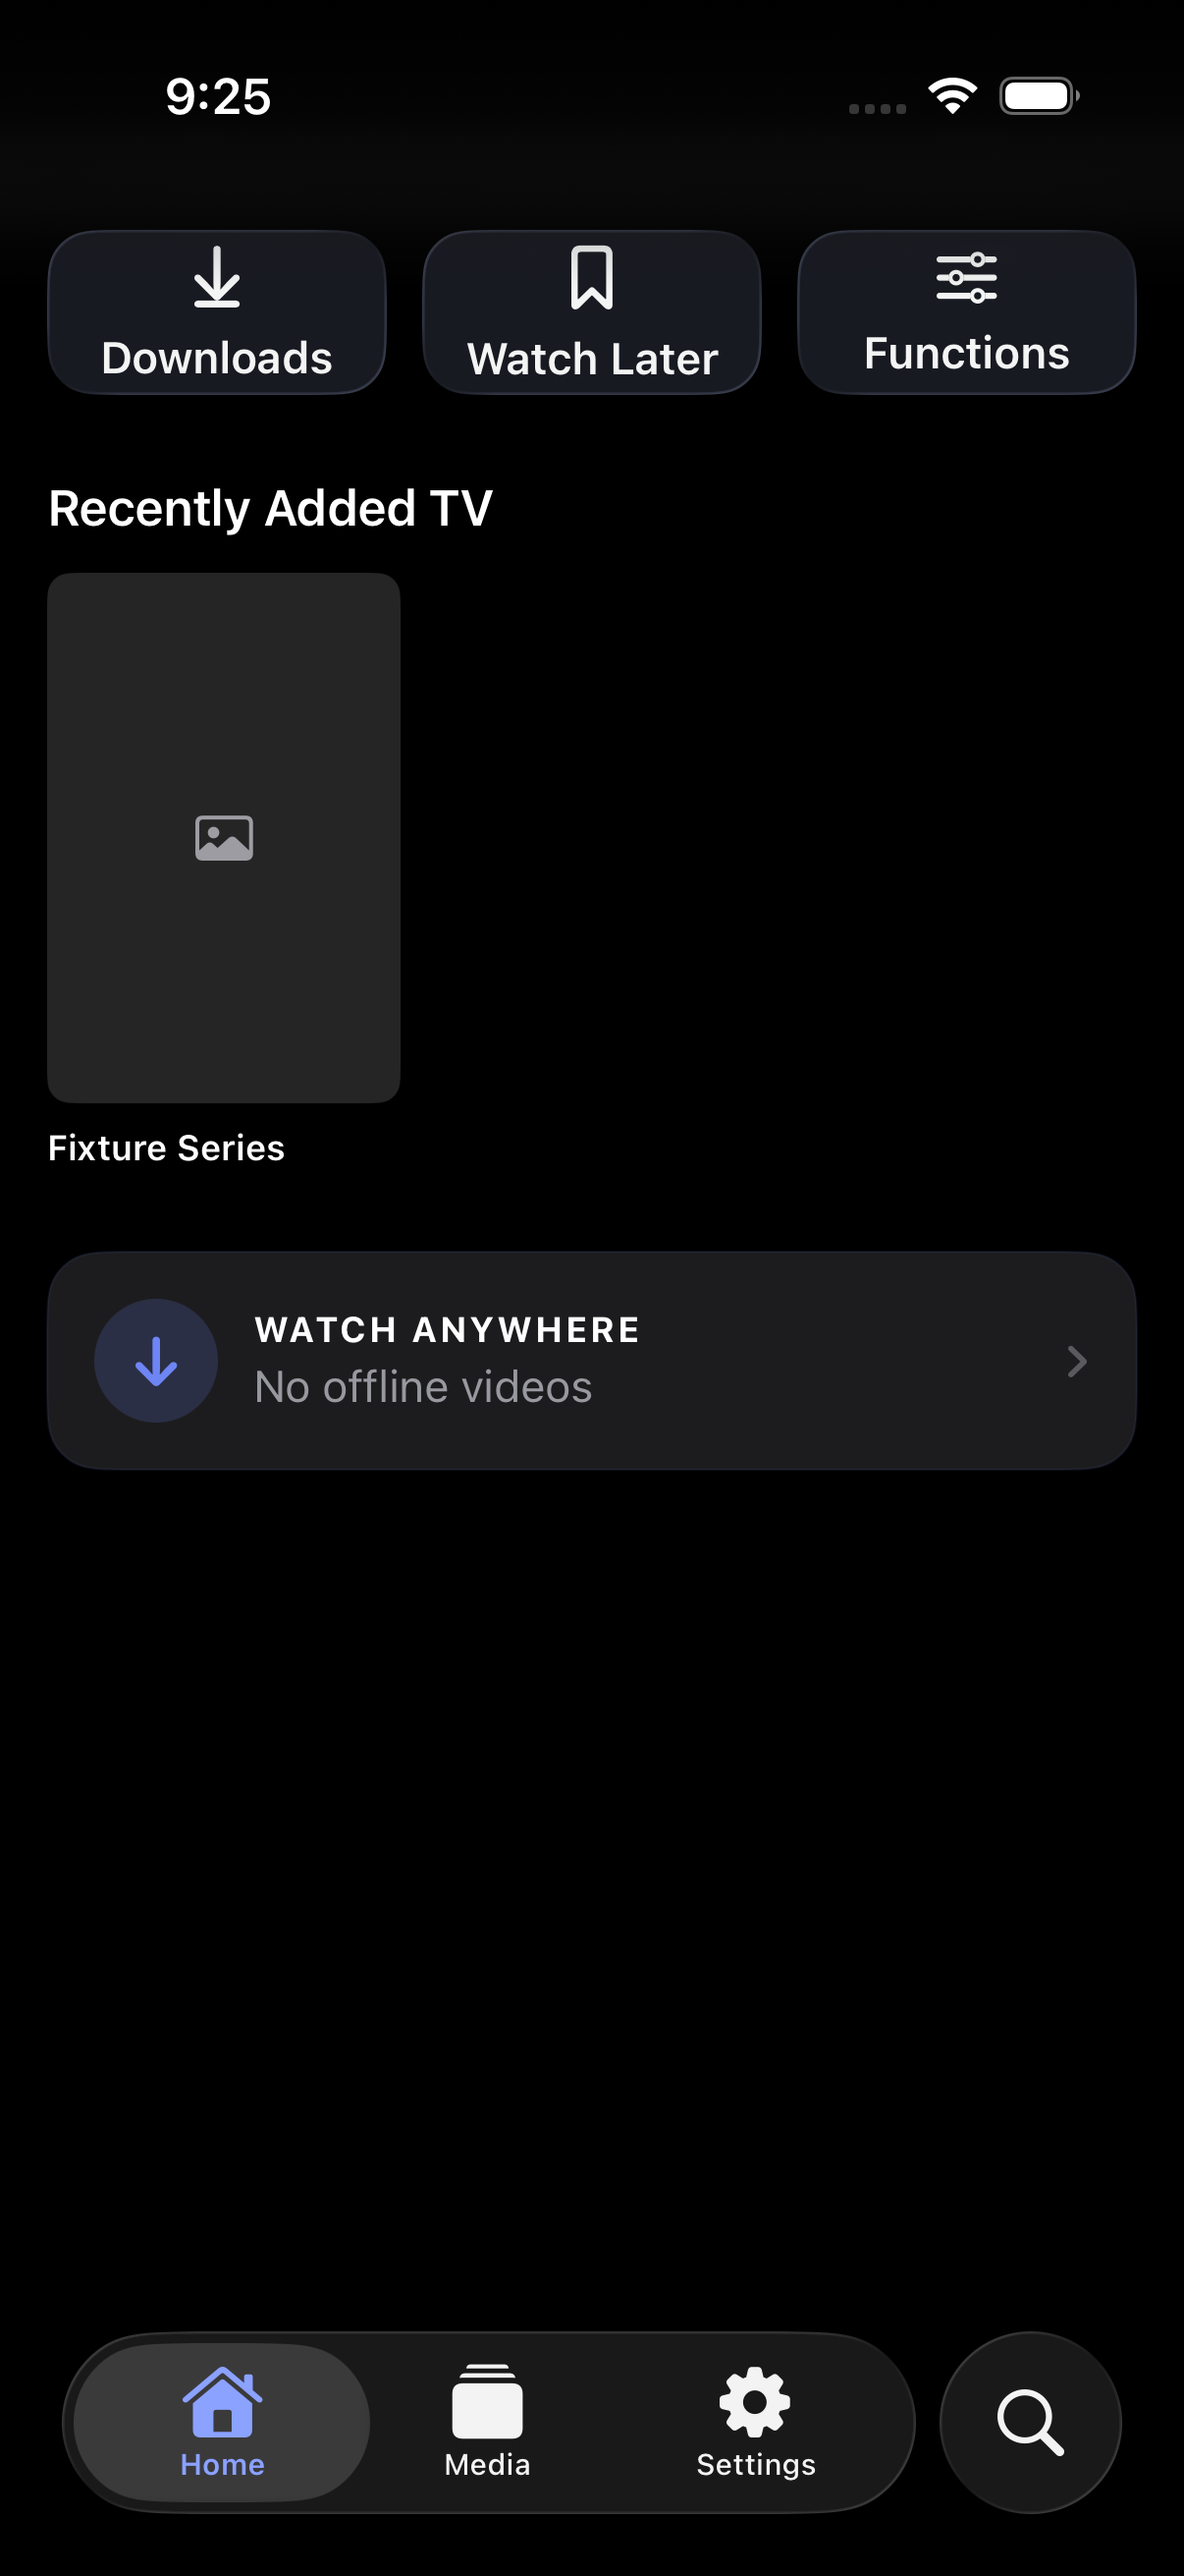
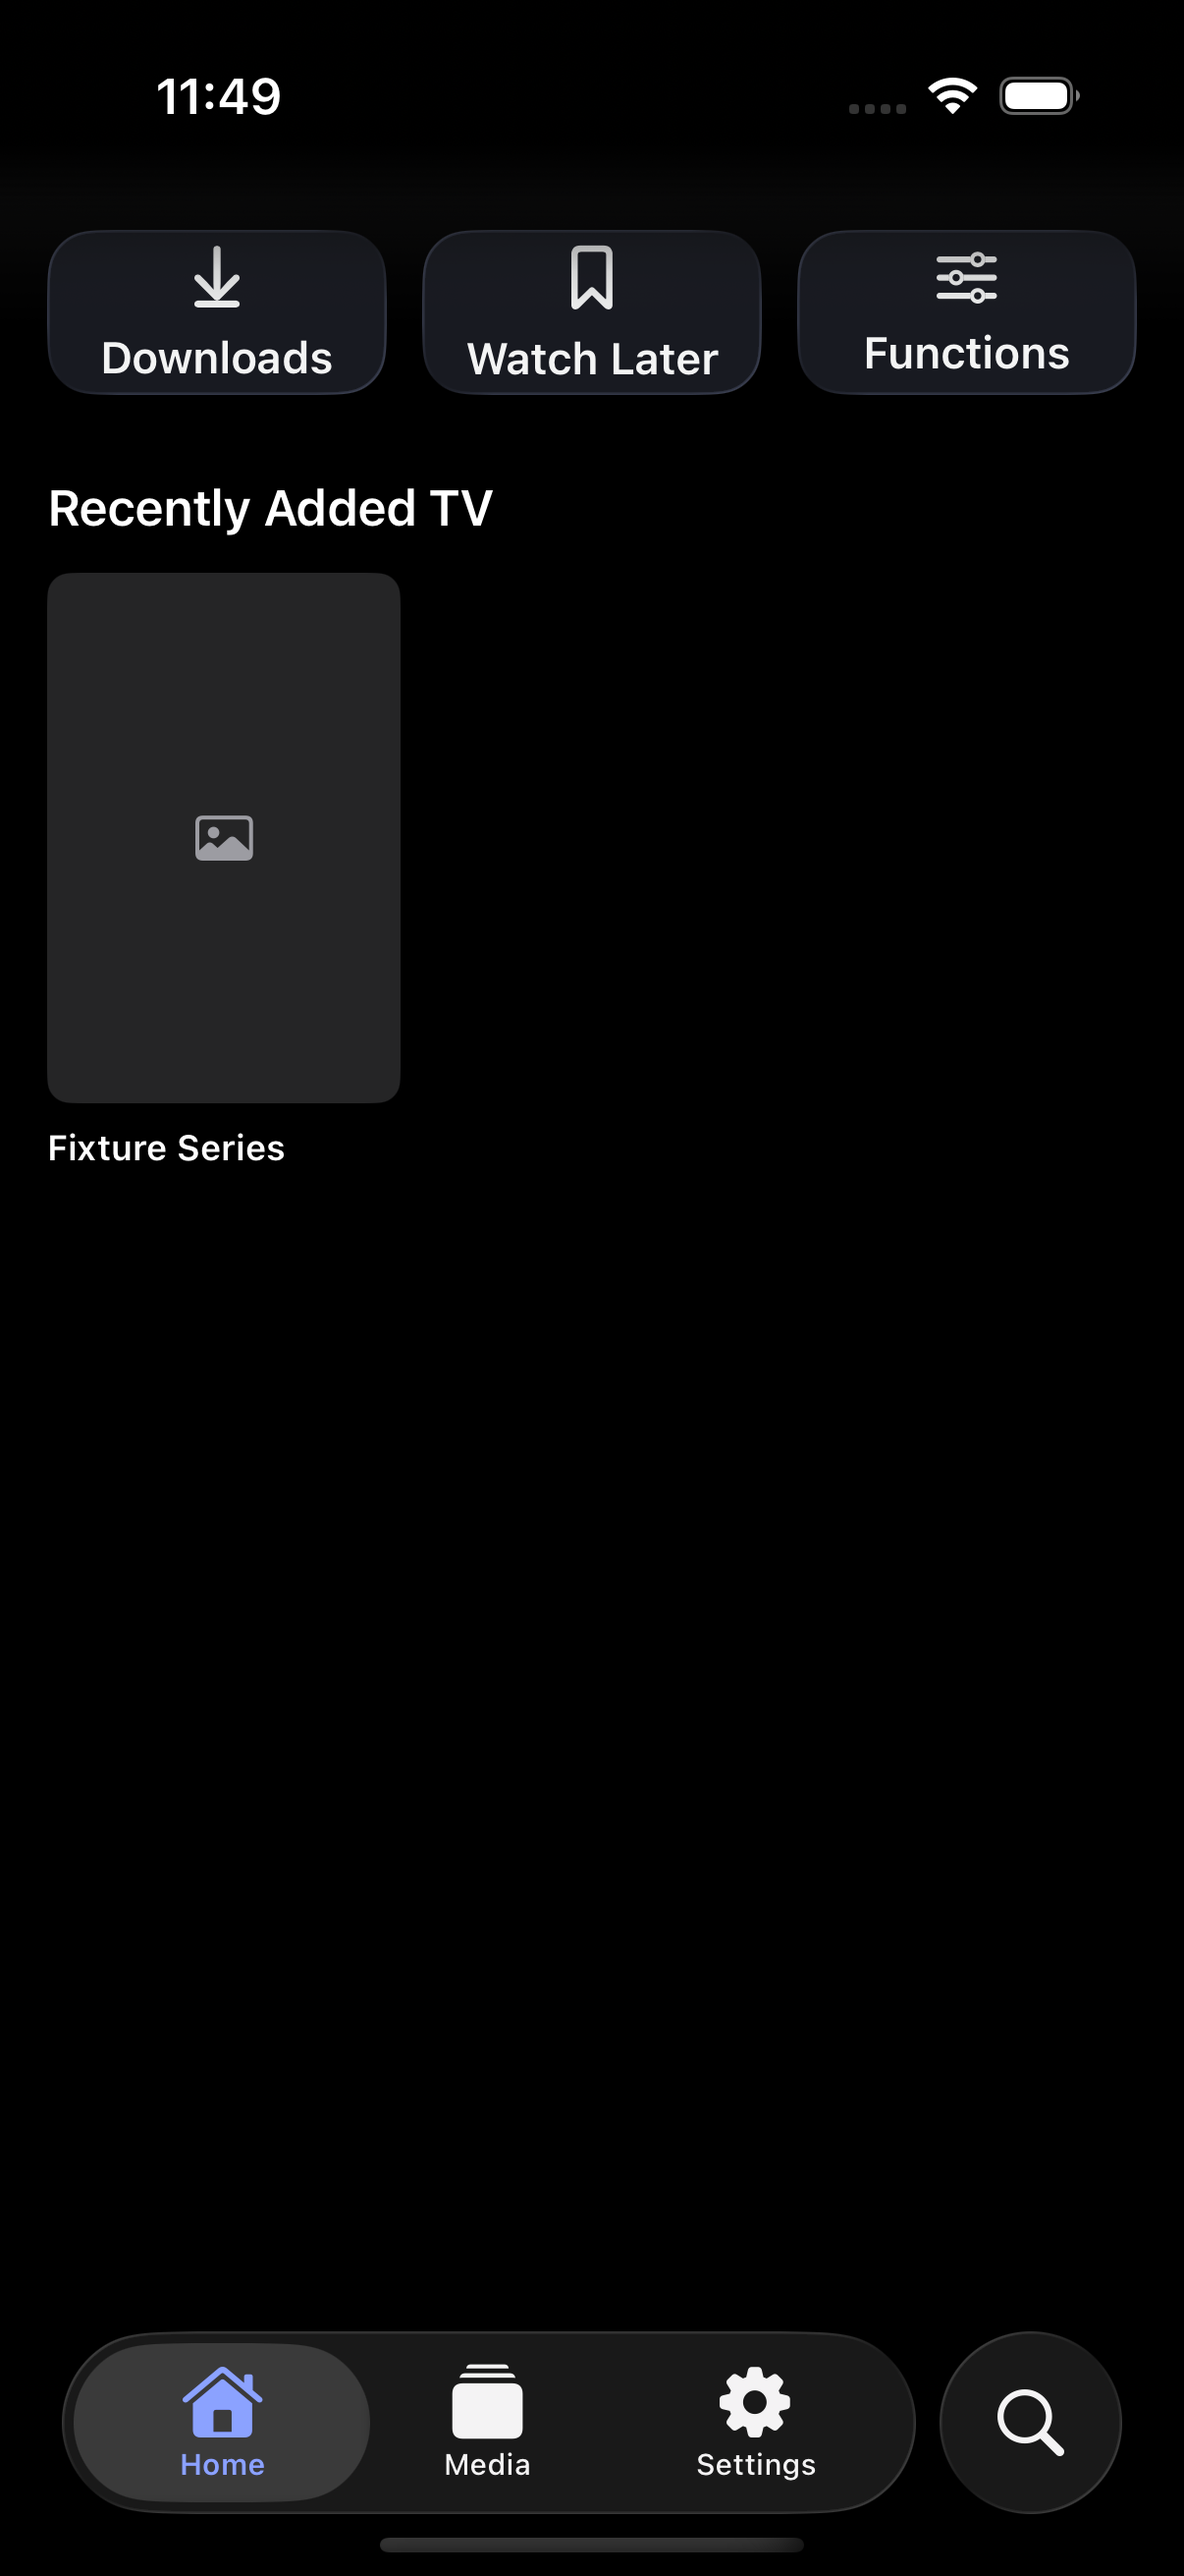
Refresh Home screenshot from rebuilt app without duplicate Downloads entry

Changed region(s): [[0.0307, 0.4634, 0.9818, 0.587], [0.3375, 0.9577, 0.675, 1.0], [0.1227, 0.0309, 0.2454, 0.0618]]

diff --git a/README.md b/README.md
@@ -26,7 +26,7 @@ Cuehouse is my independent app project, built around a simple goal: make it easi
 </tr>
 </table>
 
-Select an image to inspect the full-size screenshot. These captures illustrate interface design at the time of their October 2026 fixture runs; they are not a live media library or a guarantee of the latest build's behavior.
+Select an image to inspect the full-size screenshot. Home was recaptured on November 1, 2026 from a fresh simulator build after removal of the duplicate Downloads entry. The other captures are from October 2026 fixture runs. They illustrate interface design with sample data, not a live media library.
 
 ## Why I’m building it
 
